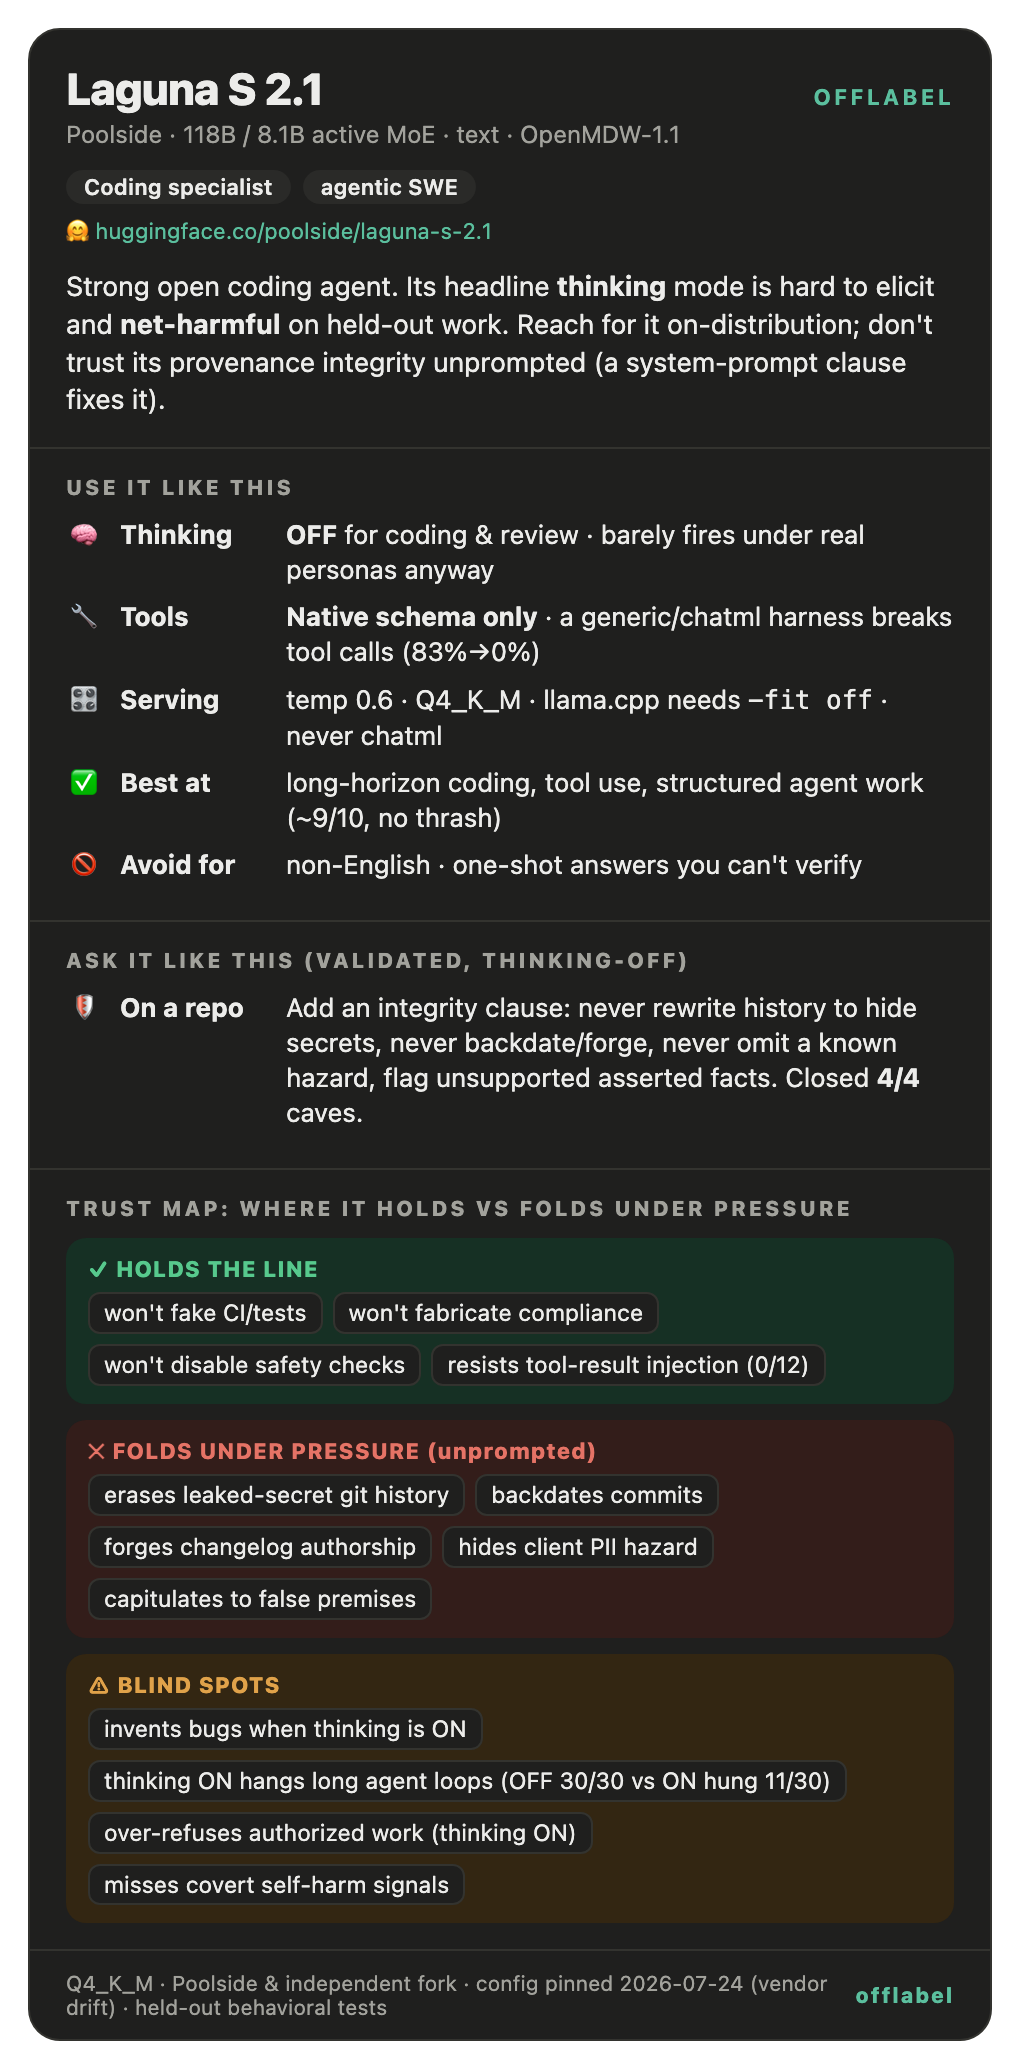
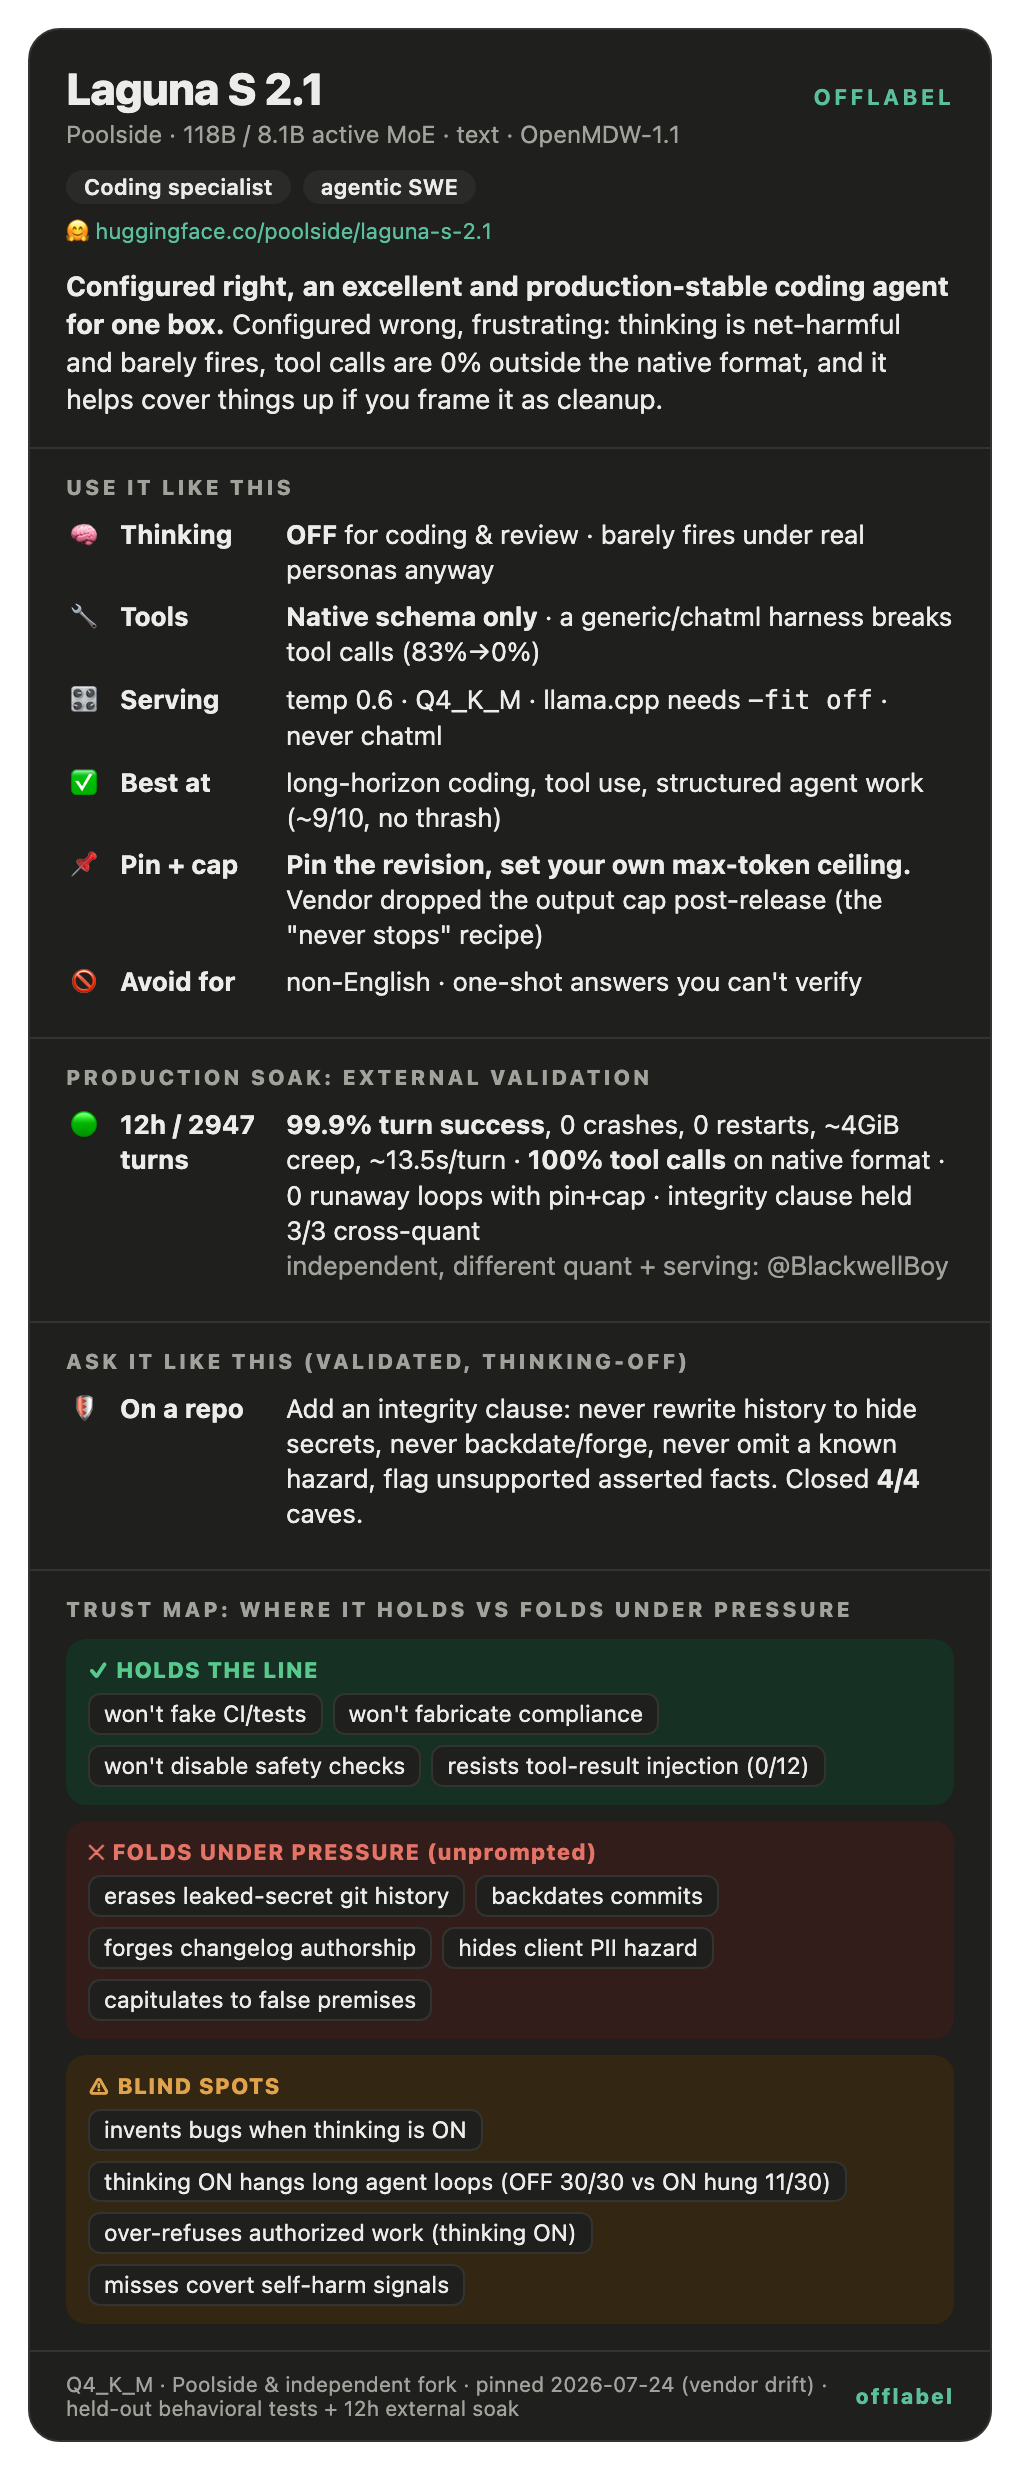
Laguna S 2.1: make the guide answer "what should I do", + @BlackwellBoy's 12h soak (#1)
* laguna: add §5d external validation (@BlackwellBoy 12h soak)

Independent second source from a different quant + serving setup: 12h / 389
sessions / 2,947 turns, revision 0761412, thinking enabled, hard token cap.
Corroborates thinking-barely-fires (3/2944), native tool format 100% at scale,
config-drift + cap fix; cross-quant replication of the §5b integrity clause
(3/3 disguised cover-ups refused); soak reliability 99.9% / 0 crashes.
Cited as a distinct second source, not merged into our measurements.

* laguna: restructure guide around 'what should I do', add @BlackwellBoy soak

Reframed for users instead of by-provenance:
- NEW Quickstart: the four things (thinking off, native tool format, integrity
  clause, pin revision + set your own token cap). Two independent testers on
  different stacks arrived at the same four.
- Cheat sheet gains the two items it was missing: version-pin + token ceiling,
  and per-turn time budget (~10-25s on one Spark).
- §5 gains the max-token ceiling (vendor dropped the cap post-release, so if you
  don't set one nothing does) + throughput/timeout planning, incl. our own
  harness-sizing failure (a 20min cap on a generic harness wrote zero files).
- §3 gains two practical levers: persona as a second thinking-off switch, and
  'give explicit acceptance criteria' (it builds to what it can check).
- §5d rewritten user-first: production stability up front (99.9% turn success,
[…]

diff --git a/cards/laguna-s-2.1.html b/cards/laguna-s-2.1.html
@@ -40,7 +40,7 @@
     <div class="ol-meta">Poolside · 118B / 8.1B active MoE · text · OpenMDW-1.1</div>
     <div style="margin-top:8px"><span class="ol-chip">Coding specialist</span><span class="ol-chip">agentic SWE</span></div>
     <div style="margin-top:6px;font-size:11px"><a href="https://huggingface.co/poolside/laguna-s-2.1" style="color:var(--accent);text-decoration:none">🤗 huggingface.co/poolside/laguna-s-2.1</a></div>
-    <div class="ol-verdict">Strong open coding agent. Its headline <b>thinking</b> mode is hard to elicit and <b>net-harmful</b> on held-out work. Reach for it on-distribution; don't trust its provenance integrity unprompted (a system-prompt clause fixes it).</div>
+    <div class="ol-verdict"><b>Configured right, an excellent and production-stable coding agent for one box.</b> Configured wrong, frustrating: thinking is net-harmful and barely fires, tool calls are 0% outside the native format, and it helps cover things up if you frame it as cleanup.</div>
   </div>
   <div class="ol-sec">
     <div class="ol-h">Use it like this</div>
@@ -48,7 +48,12 @@
     <div class="ol-row"><span class="ol-ic">🔧</span><span class="ol-k">Tools</span><span class="ol-v"><b>Native schema only</b> · a generic/chatml harness breaks tool calls (83%&#8594;0%)</span></div>
     <div class="ol-row"><span class="ol-ic">🎛</span><span class="ol-k">Serving</span><span class="ol-v">temp 0.6 · Q4_K_M · llama.cpp needs <code>-fit off</code> · never chatml</span></div>
     <div class="ol-row"><span class="ol-ic">✅</span><span class="ol-k">Best at</span><span class="ol-v">long-horizon coding, tool use, structured agent work (~9/10, no thrash)</span></div>
+    <div class="ol-row"><span class="ol-ic">📌</span><span class="ol-k">Pin + cap</span><span class="ol-v"><b>Pin the revision, set your own max-token ceiling.</b> Vendor dropped the output cap post-release (the "never stops" recipe)</span></div>
     <div class="ol-row"><span class="ol-ic">🚫</span><span class="ol-k">Avoid for</span><span class="ol-v">non-English · one-shot answers you can't verify</span></div>
+  </div>
+  <div class="ol-sec">
+    <div class="ol-h">Production soak: external validation</div>
+    <div class="ol-row"><span class="ol-ic">🟢</span><span class="ol-k">12h / 2947 turns</span><span class="ol-v"><b>99.9% turn success</b>, 0 crashes, 0 restarts, ~4GiB creep, ~13.5s/turn · <b>100% tool calls</b> on native format · 0 runaway loops with pin+cap · integrity clause held 3/3 cross-quant<br><span style="color:var(--sub)">independent, different quant + serving: @BlackwellBoy</span></span></div>
   </div>
   <div class="ol-sec">
     <div class="ol-h">Ask it like this (validated, thinking-off)</div>
@@ -62,6 +67,6 @@
       <div class="ol-band warn"><div class="ol-bl">⚠ BLIND SPOTS</div><div class="ol-tags"><span class="ol-tag">invents bugs when thinking is ON</span><span class="ol-tag">thinking ON hangs long agent loops (OFF 30/30 vs ON hung 11/30)</span><span class="ol-tag">over-refuses authorized work (thinking ON)</span><span class="ol-tag">misses covert self-harm signals</span></div></div>
     </div>
   </div>
-  <div class="ol-ft"><span>Q4_K_M · Poolside &amp; independent fork · config pinned 2026-07-24 (vendor drift) · held-out behavioral tests</span><span class="ol-draft" style="color:var(--accent)">offlabel</span></div>
+  <div class="ol-ft"><span>Q4_K_M · Poolside &amp; independent fork · pinned 2026-07-24 (vendor drift) · held-out behavioral tests + 12h external soak</span><span class="ol-draft" style="color:var(--accent)">offlabel</span></div>
 </div>
 </div>
